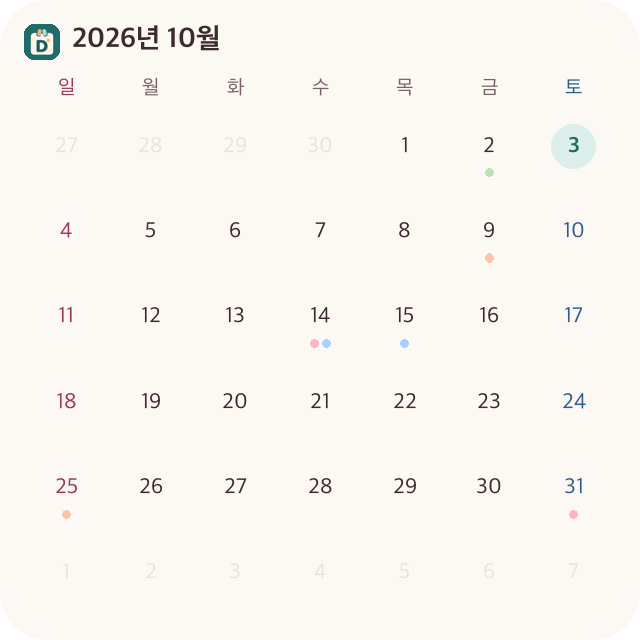
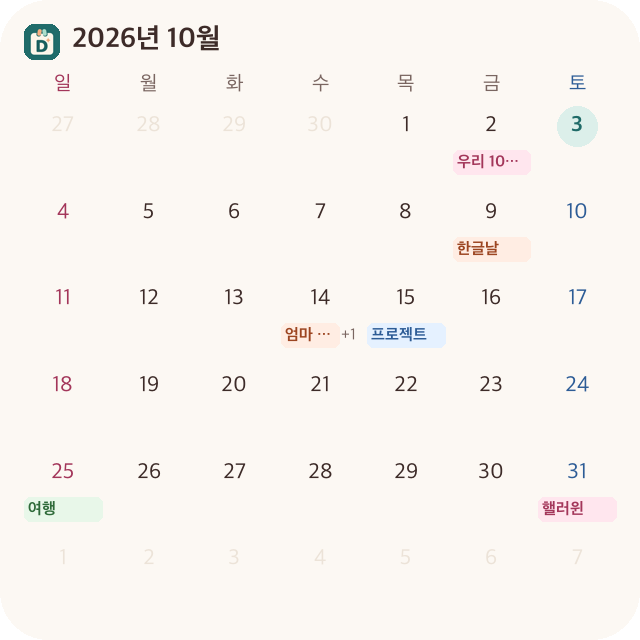
feat(calendar): 달력 칸에 일정 이름 라벨 표시, 개발용 앱 빌드 변수 전달 수정
- 앱 달력: 칸마다 일정 최대 2개를 분류색 라벨로, 넘치면 +n
- 달력 위젯: 칸마다 첫 일정 라벨과 +n, 미리보기 이미지 갱신
- build:android:dev-app이 APP_VARIANT를 gradle 단계까지 전달(이전에는 개발용 앱에서 Pro가 꺼져 있었음)

diff --git a/src/features/widget/DdayCalendarWidget.tsx b/src/features/widget/DdayCalendarWidget.tsx
@@ -7,7 +7,8 @@ import { paletteFor, type WidgetTheme } from './DdayWidget';
 
 export const CALENDAR_WIDGET_NAME = 'DdayCalendarWidget';
 
-export type CalendarWidgetCell = MonthCell & { dotColors: CategoryColorKey[] };
+export type CalendarWidgetLabel = { text: string; color: CategoryColorKey };
+export type CalendarWidgetCell = MonthCell & { labels: CalendarWidgetLabel[] };
 
 type DdayCalendarWidgetProps = {
   title: string;
@@ -21,9 +22,8 @@ const APP_LOGO = require('../../../assets/logo.png');
 const WEEKDAYS = ['일', '월', '화', '수', '목', '금', '토'] as const;
 // 앱마다 스킴이 달라(개발용 앱은 -dev) 설정 값으로 주소를 만든다.
 const PRO_SETTINGS_URI = Linking.createURL('settings');
-const DOT_SIZE = 4;
 
-/** 이번 달 달력 위젯(Pro). 디데이·기념일이 있는 날에 분류색 점을 찍는다. */
+/** 이번 달 달력 위젯(Pro). 칸마다 첫 일정 이름과 남은 개수(+n)를 보여준다. */
 export function DdayCalendarWidget({
   title,
   cells,
@@ -113,7 +113,8 @@ export function DdayCalendarWidget({
                       flex: 1,
                       flexDirection: 'column',
                       alignItems: 'center',
-                      justifyContent: 'center',
+                      justifyContent: 'flex-start',
+                      paddingHorizontal: 1,
                     }}
                   >
                     <FlexWidget
@@ -139,20 +140,42 @@ export function DdayCalendarWidget({
                         }}
                       />
                     </FlexWidget>
-                    <FlexWidget style={{ flexDirection: 'row', height: DOT_SIZE }}>
-                      {cell.dotColors.slice(0, 3).map((color, dotIndex) => (
+                    {cell.labels[0] && (
+                      <FlexWidget
+                        style={{
+                          width: 'match_parent',
+                          flexDirection: 'row',
+                          alignItems: 'center',
+                          marginTop: 1,
+                        }}
+                      >
                         <FlexWidget
-                          key={dotIndex}
                           style={{
-                            width: DOT_SIZE,
-                            height: DOT_SIZE,
-                            borderRadius: DOT_SIZE / 2,
-                            marginHorizontal: 1,
-                            backgroundColor: palette[color].dot,
+                            flex: 1,
+                            backgroundColor: palette[cell.labels[0].color].soft,
+                            borderRadius: 3,
+                            paddingHorizontal: 2,
                           }}
-                        />
-                      ))}
-                    </FlexWidget>
+                        >
+                          <TextWidget
+                            text={cell.labels[0].text}
+                            maxLines={1}
+                            truncate="END"
+                            style={{
+                              fontSize: 8,
+                              fontWeight: '600',
+                              color: palette[cell.labels[0].color].text,
+                            }}
+                          />
+                        </FlexWidget>
+                        {cell.labels.length > 1 && (
+                          <TextWidget
+                            text={`+${cell.labels.length - 1}`}
+                            style={{ fontSize: 8, color: colors.textMuted, marginLeft: 1 }}
+                          />
+                        )}
+                      </FlexWidget>
+                    )}
                   </FlexWidget>
                 );
               })}

diff --git a/src/features/calendar/CalendarView.tsx b/src/features/calendar/CalendarView.tsx
@@ -10,7 +10,8 @@ import { buildMonthGrid, type CalendarEvent, getEventsInRange, shiftMonth } from
 import { calendarStrings } from './strings';
 
 const WEEKDAYS = ['일', '월', '화', '수', '목', '금', '토'] as const;
-const MAX_DOTS = 3;
+/** 칸에 이름으로 보여줄 일정 수. 넘치면 +n으로 표시한다. */
+const MAX_LABELS = 2;
 
 type CalendarViewProps = {
   items: readonly Dday[];
@@ -134,17 +135,29 @@ export function CalendarView({ items, categories, today, onOpenDetail }: Calenda
                     {dayNumber}
                   </Text>
                 </View>
-                <View style={styles.dots}>
-                  {events.slice(0, MAX_DOTS).map((event) => (
-                    <View
-                      key={`${event.itemId}-${event.kind}`}
-                      style={[
-                        styles.dot,
-                        { backgroundColor: colorOf(event.categoryId).dot },
-                        !cell.isCurrentMonth && styles.dotOutside,
-                      ]}
-                    />
-                  ))}
+                <View style={[styles.labels, !cell.isCurrentMonth && styles.labelsOutside]}>
+                  {events.slice(0, MAX_LABELS).map((event) => {
+                    const palette = colorOf(event.categoryId);
+                    return (
+                      <Text
+                        key={`${event.itemId}-${event.kind}`}
+                        numberOfLines={1}
+                        style={[
+                          styles.label,
+                          { backgroundColor: palette.soft, color: palette.text },
+                        ]}
+                      >
+                        {event.kind === 'milestone' && event.dayCount
+                          ? calendarStrings.milestone(event.dayCount)
+                          : event.title}
+                      </Text>
+                    );
+                  })}
+                  {events.length > MAX_LABELS && (
+                    <Text style={styles.more}>
+                      {calendarStrings.more(events.length - MAX_LABELS)}
+                    </Text>
+                  )}
                 </View>
               </Pressable>
             );
@@ -187,7 +200,6 @@ export function CalendarView({ items, categories, today, onOpenDetail }: Calenda
   );
 }
 
-const DOT_SIZE = 5;
 const BUBBLE_SIZE = 34;
 
 const createStyles = ({ colors, shadow }: Theme) =>
@@ -253,7 +265,8 @@ const createStyles = ({ colors, shadow }: Theme) =>
       width: `${100 / 7}%`,
       alignItems: 'center',
       paddingVertical: 3,
-      minHeight: 50,
+      paddingHorizontal: 1,
+      minHeight: 86,
     },
     dayBubble: {
       width: BUBBLE_SIZE,
@@ -278,19 +291,26 @@ const createStyles = ({ colors, shadow }: Theme) =>
     dayTextOutside: {
       opacity: 0.35,
     },
-    dots: {
-      flexDirection: 'row',
+    labels: {
+      alignSelf: 'stretch',
       gap: 2,
-      height: DOT_SIZE + 2,
-      marginTop: 1,
+      marginTop: 2,
     },
-    dot: {
-      width: DOT_SIZE,
-      height: DOT_SIZE,
-      borderRadius: DOT_SIZE / 2,
-    },
-    dotOutside: {
+    labelsOutside: {
       opacity: 0.4,
+    },
+    label: {
+      fontSize: 10,
+      lineHeight: 14,
+      fontWeight: '600',
+      paddingHorizontal: 3,
+      borderRadius: 4,
+      overflow: 'hidden',
+    },
+    more: {
+      fontSize: 10,
+      color: colors.textMuted,
+      textAlign: 'center',
     },
     selectedTitle: {
       fontSize: fontSize.body,

diff --git a/src/features/widget/widgetTaskHandler.tsx b/src/features/widget/widgetTaskHandler.tsx
@@ -57,9 +57,15 @@ export async function renderCalendarWidget(): Promise<React.JSX.Element> {
   const events = result.ok ? getEventsInRange(result.items, first, last) : [];
   const cells = grid.map((cell) => ({
     ...cell,
-    dotColors: events
+    labels: events
       .filter((event) => event.date === cell.date)
-      .map((event) => colorById.get(event.categoryId) ?? 'gray'),
+      .map((event) => ({
+        text:
+          event.kind === 'milestone' && event.dayCount
+            ? calendarStrings.milestone(event.dayCount)
+            : event.title,
+        color: colorById.get(event.categoryId) ?? 'gray',
+      })),
   }));
   return (
     <DdayCalendarWidget

diff --git a/src/features/calendar/strings.ts b/src/features/calendar/strings.ts
@@ -5,6 +5,7 @@ export const calendarStrings = {
   today: '오늘',
   noEvents: '이날은 디데이가 없어요.',
   milestone: (dayCount: number) => `${dayCount.toLocaleString()}일`,
+  more: (count: number) => `+${count}`,
   cellLabel: (date: string, count: number) => (count > 0 ? `${date}, 디데이 ${count}개` : date),
   viewList: '목록',
   viewCalendar: '달력',

diff --git a/docs/release.md b/docs/release.md
@@ -55,4 +55,5 @@ adb install android/app/build/outputs/apk/release/app-release.apk
 
 - 이름 "내곁의 디데이 개발", 스킴 `naegyeotdday-dev`. 스토어 앱과 나란히 설치되고 데이터도 따로 쓴다.
 - Pro가 항상 켜져 있고 테스트 광고만 쓴다. 패키지가 달라 스토어에 올라갈 수 없다.
+- `APP_VARIANT`는 prebuild뿐 아니라 gradle 단계(JS 번들, 앱 설정 내장)까지 전달돼야 한다. 스크립트가 `export`로 넘긴다.
 - 이 빌드 뒤에 스토어용을 만들 때는 `npm run build:android:release`/`bundle`이 `prebuild --clean`으로 android/를 다시 만든다.
